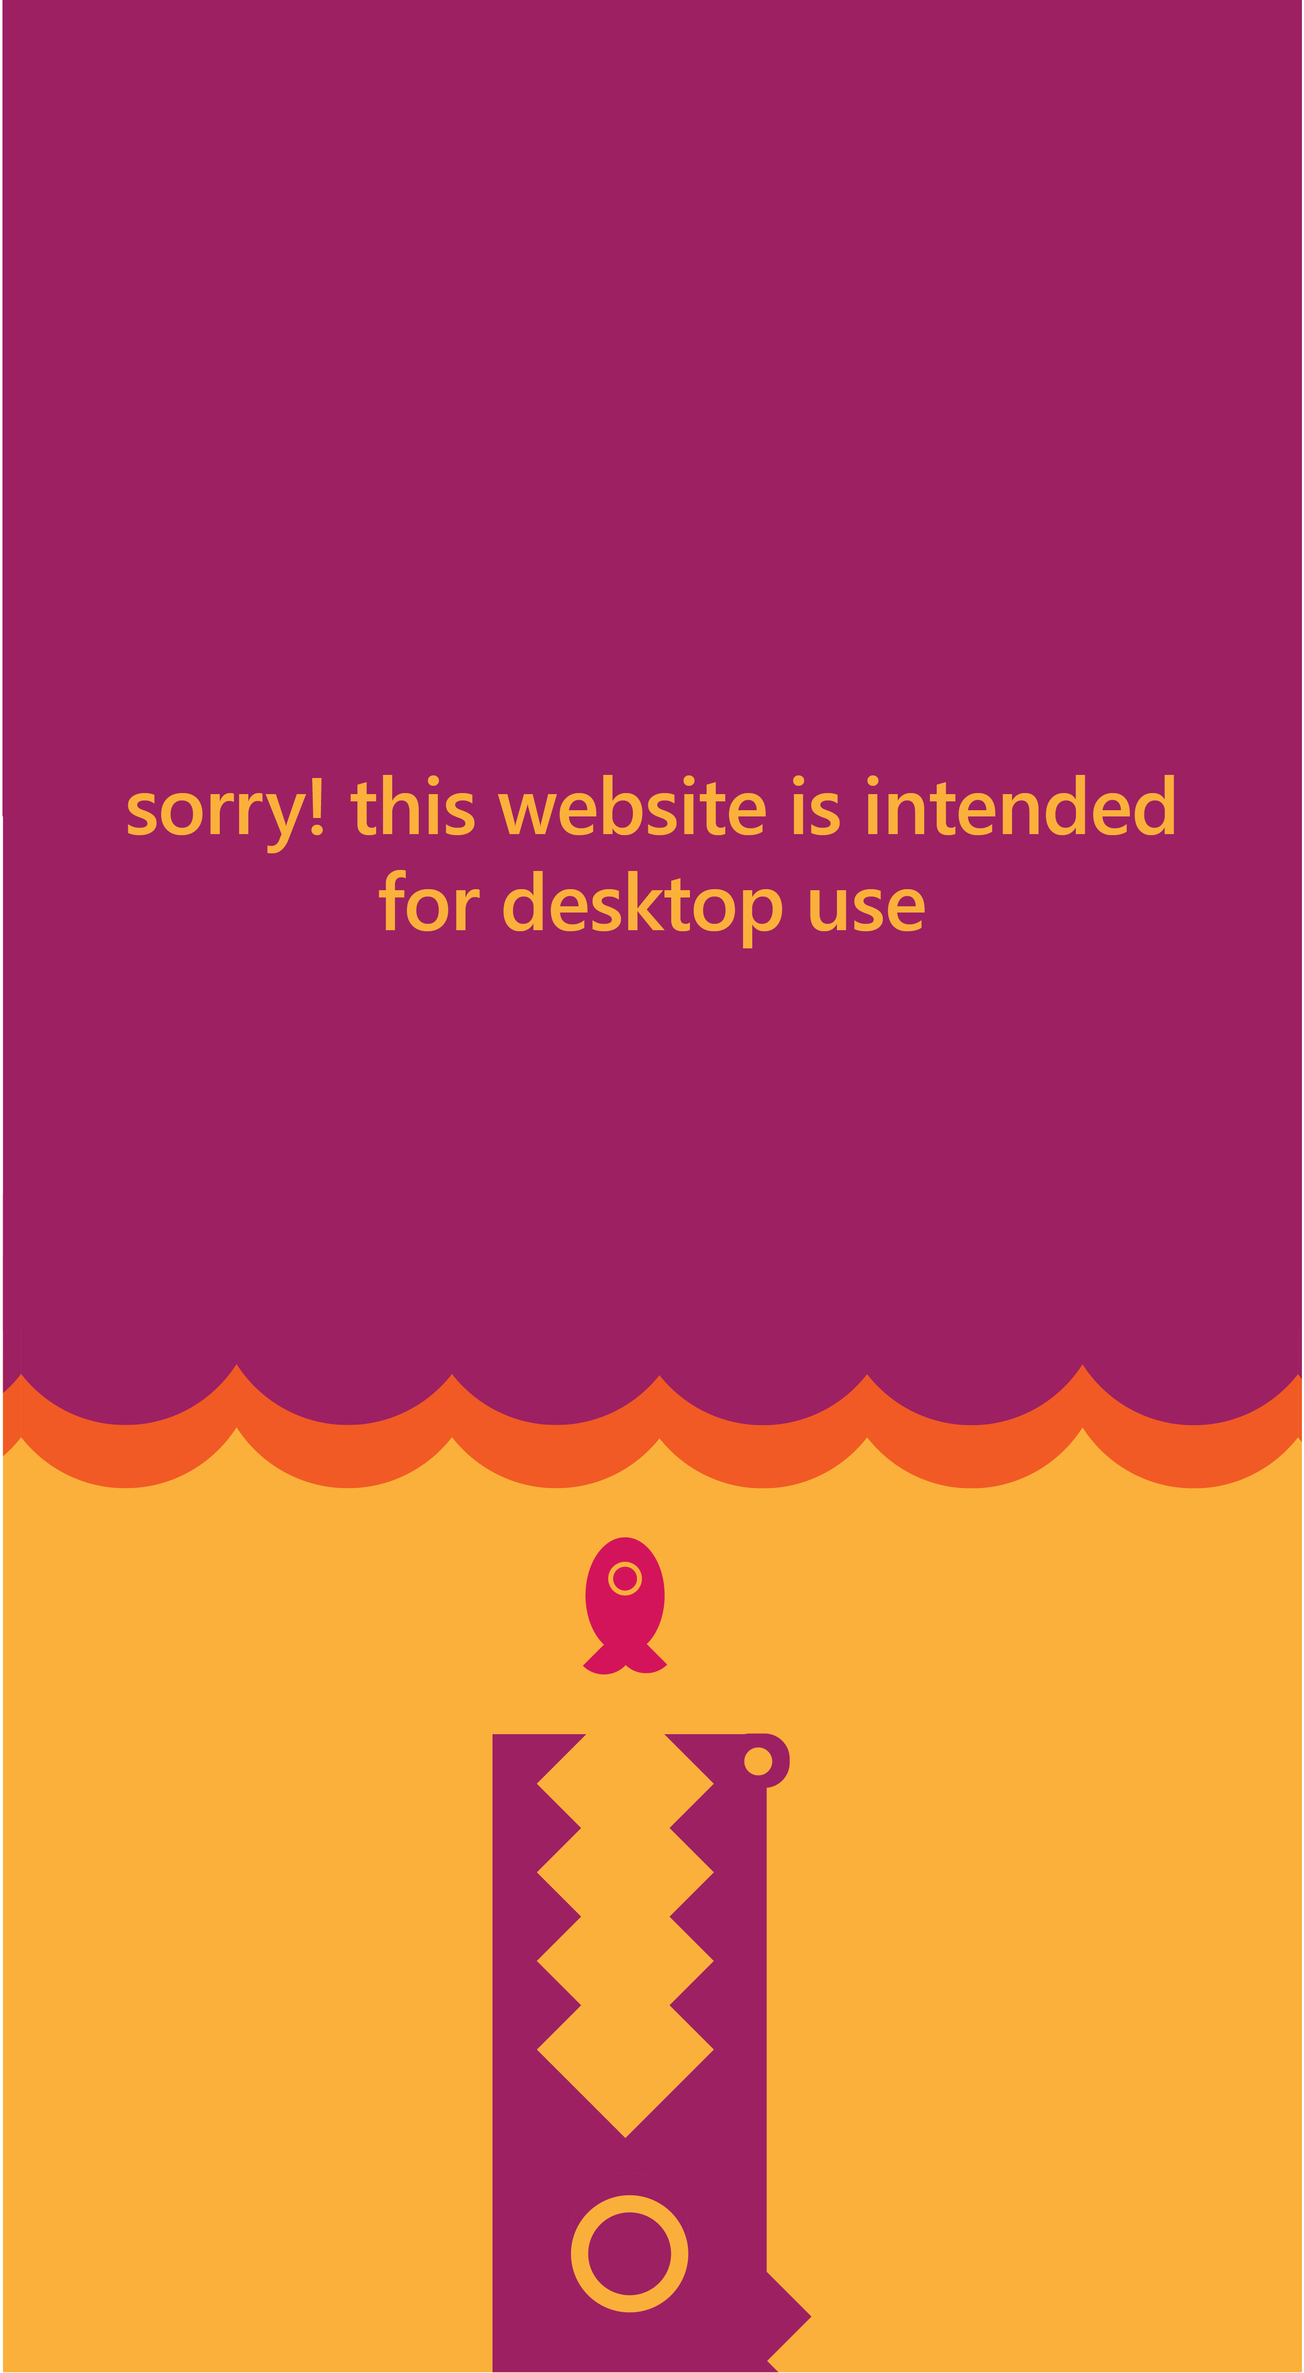
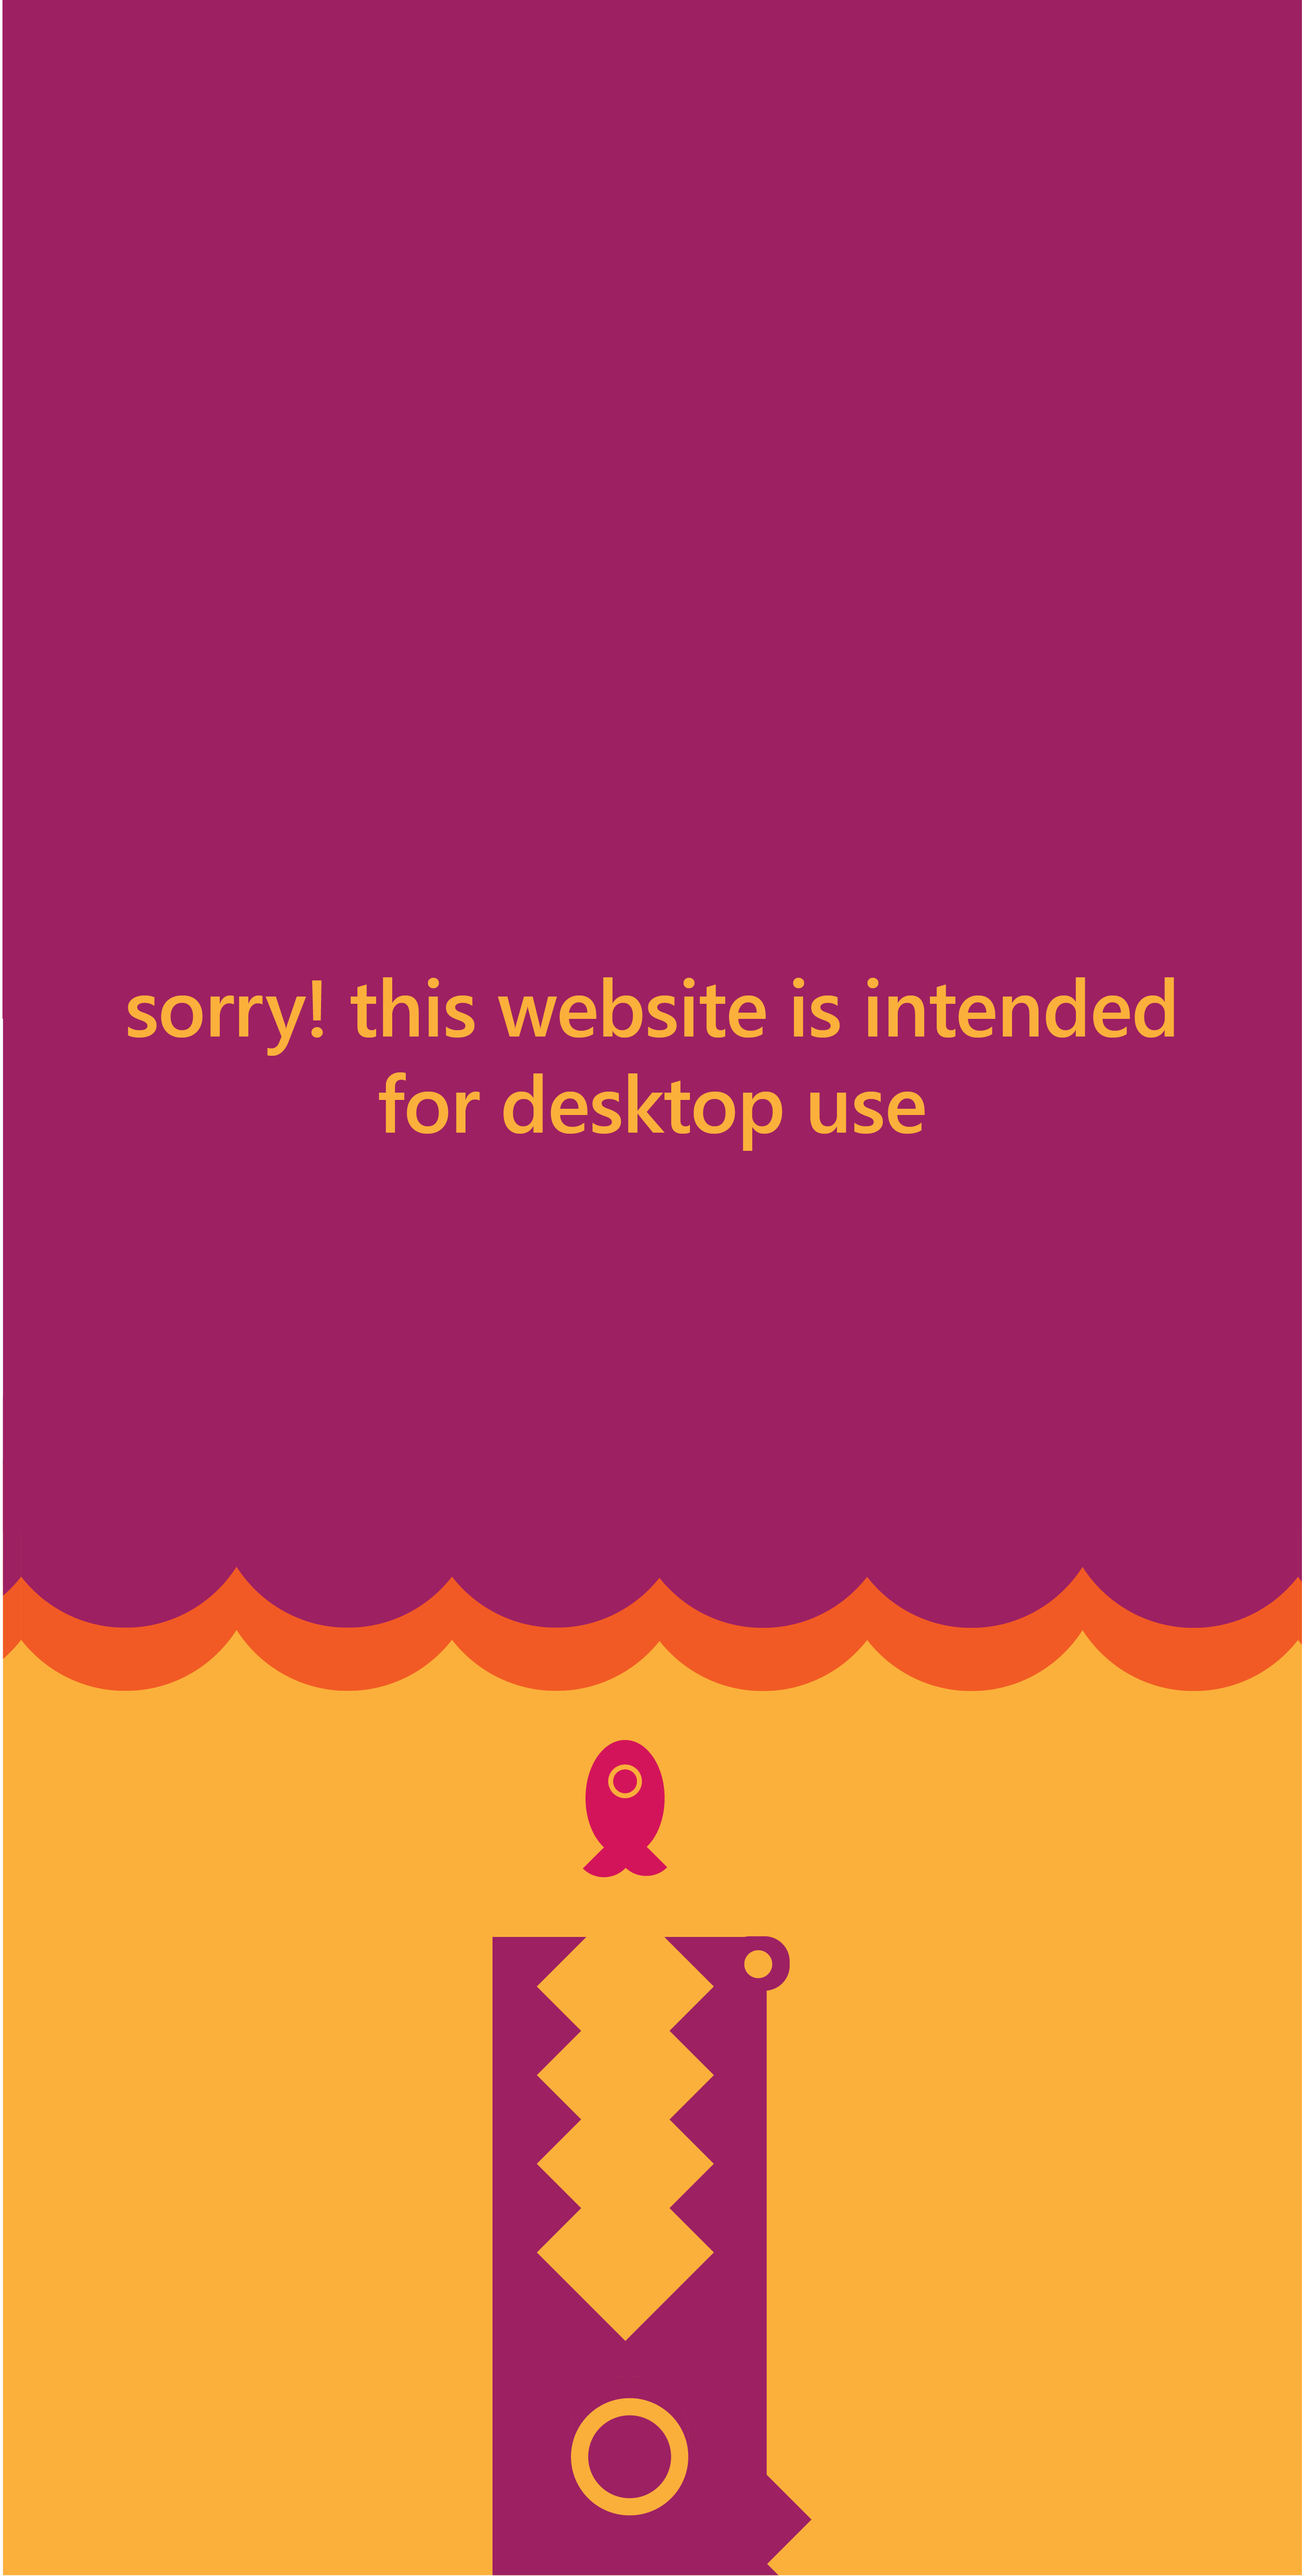
404 test

Changed region(s): [[0.0, 0.5594, 1.0, 0.9945], [0.0932, 0.3108, 0.9012, 0.4662], [0.5904, 0.9634, 0.6215, 0.9945]]

diff --git a/404.html b/404.html
@@ -3,35 +3,25 @@
 <head>
   <meta charset="UTF-8">
   <title>Page Not Found</title>
-  <link rel="stylesheet" href="styles.css">
   <style>
     body {
+      margin: 0;
+      padding: 0;
+      background: #FBB03B;
       display: flex;
       justify-content: center;
       align-items: center;
       height: 100vh;
-      background: #FBB03B;
     }
-    .error-img {
-      max-width: 80%;
+
+    img {
+      width: 80%;
+      max-width: 600px;
       height: auto;
     }
   </style>
 </head>
 <body>
-
-  <img src="404.png" class="error-img" alt="404 Error">
-
-  <!-- ⭐ Step 3 goes RIGHT HERE -->
-  <a href="index.html" style="
-    display:block;
-    text-align:center;
-    margin-top:20px;
-    font-size:1.5rem;
-    color:#9e1f63;
-    text-decoration:none;
-  ">Go Home</a>
-
+  <img src="404.png" alt="404 - Page Not Found">
 </body>
-
 </html>
